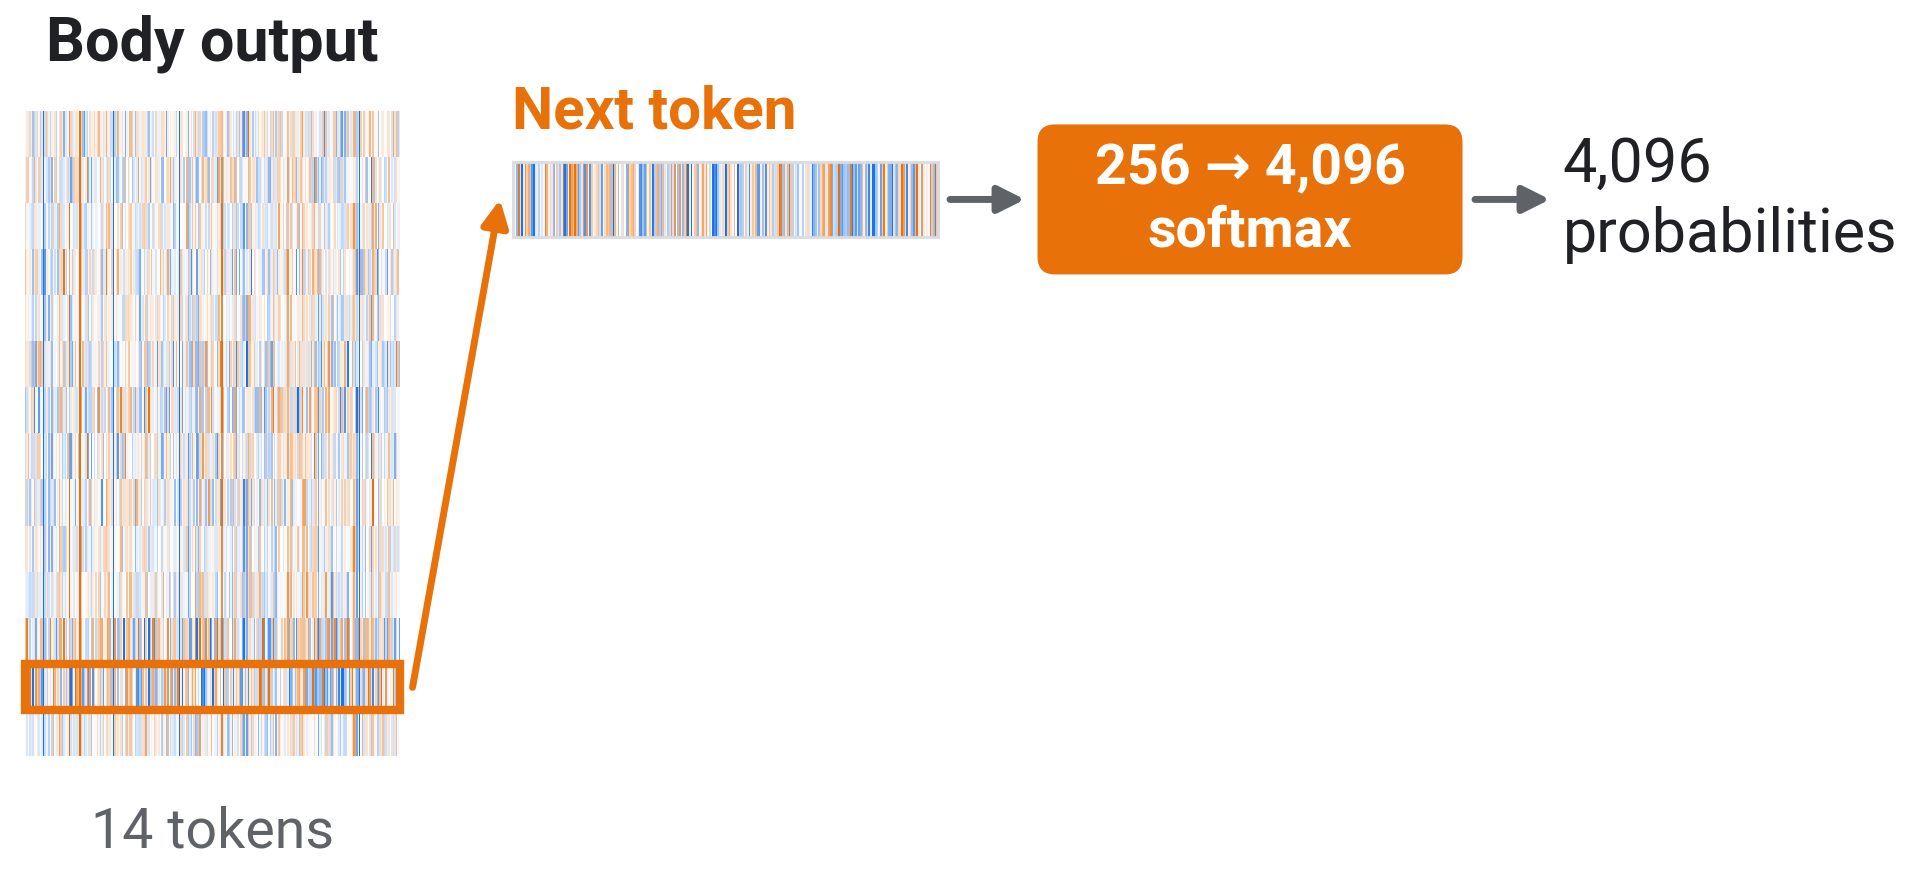
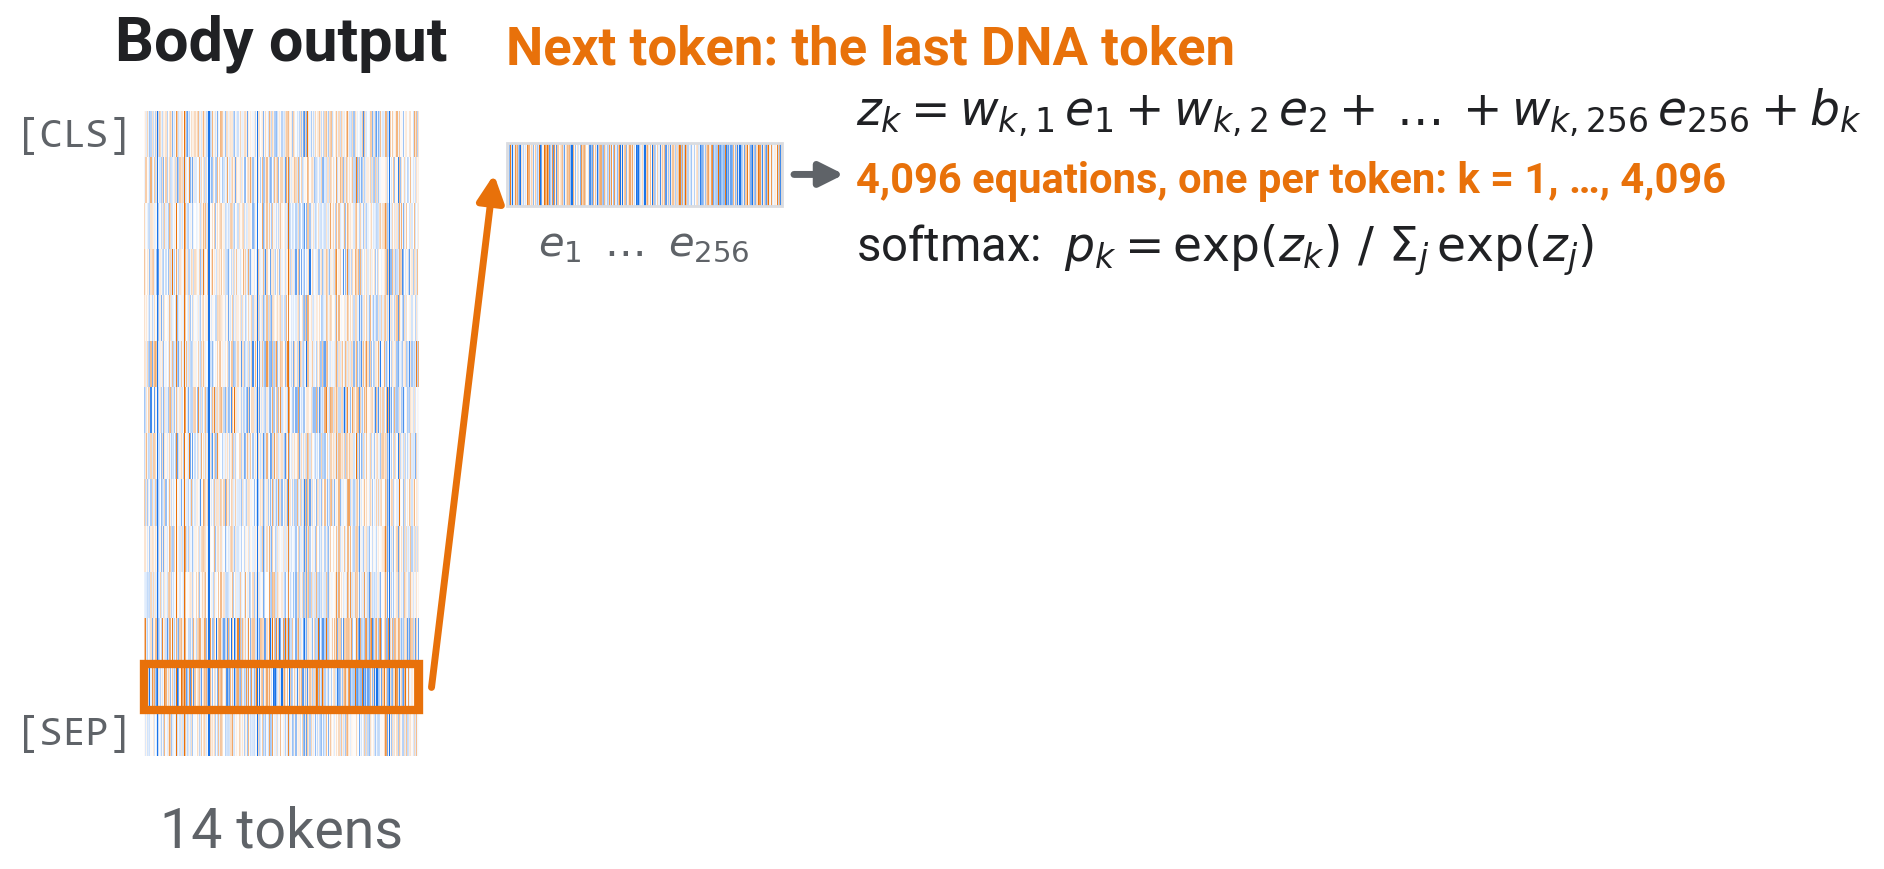
Deck 2 slide 5.1: [CLS] and [SEP] named, the task head reads the average of all rows, each head's equations written out with their count

Changed region(s): [[0.0, 0.0, 0.9851, 0.87], [0.0308, 0.9321, 0.2155, 0.9942]]

diff --git a/slides/02_foundation_models.html b/slides/02_foundation_models.html
@@ -599,9 +599,10 @@
 <aside class="notes">
 <ul>
 <li>Left: the body’s output for the sequence of slide 4.2, one row of 256 numbers per token: its contextual embeddings. One head per click.</li>
-<li>Next token: the last token’s row goes through a linear layer to 4,096 scores, one per vocabulary token; the softmax turns them into probabilities that sum to 1. Masked token: the same, from the hidden token’s row.</li>
+<li>The first and last rows are [CLS] and [SEP], two special tokens the tokenizer adds; they are not DNA. So the next-token head reads the row just above [SEP], the last DNA token.</li>
+<li>Next token: that row’s 256 numbers go through a linear layer with 4,096 outputs. Each output is one weighted sum, <span class="math inline">\(z_k = w_{k,1} e_1 + \dots + w_{k,256} e_{256} + b_k\)</span>: one equation per vocabulary token, 4,096 equations, about a million weights. The softmax turns the 4,096 scores into probabilities that sum to 1. Masked token: the same equations, from the hidden token’s row.</li>
 <li>These two are the pretraining heads (slide 1.5). After pretraining they are dropped; the embedding table and the body are kept.</li>
-<li>Our task: the average of all rows, the <strong>sequence embedding</strong> (the 256 numbers of slide 4.2), goes through one linear layer to one number, then the sigmoid: P(bound).</li>
+<li>Our task: the average of all rows, the <strong>sequence embedding</strong> (the 256 numbers of slide 4.2), goes into a single equation, <span class="math inline">\(z = w_1 e_1 + \dots + w_{256} e_{256} + b\)</span>, then the sigmoid: P(bound). 257 numbers to learn, the logistic regression of part 1.</li>
 </ul>
 <style type="text/css">
         span.MJX_Assistive_MathML {

diff --git a/slides/figures/figs_deck2.py b/slides/figures/figs_deck2.py
@@ -454,33 +454,44 @@ def heads(tok, fm, pos):
     toks, _, Hc, _ = walk_tensors(tok, fm, pos)
     v = np.percentile(np.abs(Hc), 97)
     n = len(toks)
-    rows = [("Next token", n - 2, "256 → 4,096\nsoftmax", "4,096\nprobabilities", HELD_C),
-            ("Masked token", 6, "256 → 4,096\nsoftmax", "4,096\nprobabilities", HELD_C),
-            ("Our task", None, "256 → 1\nsigmoid", "P(bound)", GOOD_C)]
+    vocab = [r"$z_k = w_{k,1}\,e_1 + w_{k,2}\,e_2 + \dots + w_{k,256}\,e_{256} + b_k$",
+             "4,096 equations, one per token: k = 1, …, 4,096",
+             r"softmax:  $p_k = \exp(z_k)\ /\ \Sigma_j\, \exp(z_j)$"]
+    ours = [r"$z = w_1\,e_1 + w_2\,e_2 + \dots + w_{256}\,e_{256} + b$",
+            "one equation",
+            r"sigmoid:  $\hat p = \sigma(z)$ = P(bound)"]
+    rows = [("Next token: the last DNA token", n - 2, vocab, HELD_C),
+            ("Masked token: the hidden token", 6, vocab, HELD_C),
+            ("Our task: the average of all rows", None, ours, GOOD_C)]
     names = []
     for k in range(3):
         fig, ax, H = canvas3("d2_heads_0")
         top, bot = H - 9, 9
-        heat(ax, 2, bot, 30, top - bot, Hc, v)
+        x0, w = 12, 22                                  # room on the left to name the special rows
+        heat(ax, x0, bot, w, top - bot, Hc, v)
         rh = (top - bot) / n
-        label(ax, 17, H - 3.5, "Body output", fs=22, bold=True)
-        label(ax, 17, 3, f"{n} tokens", fs=20, color=MUTED)
+        label(ax, x0 + w / 2, H - 3.5, "Body output", fs=22, bold=True)
+        label(ax, x0 + w / 2, 3, f"{n} tokens", fs=20, color=MUTED)
+        for ri, nm_ in ((0, "[CLS]"), (n - 1, "[SEP]")):      # special tokens the tokenizer adds; not DNA
+            label(ax, x0 - 1, top - (ri + 0.5) * rh, nm_, fs=15, color=MUTED, ha="right", family=MONO)
         step = (H - 6) / 3
-        for j, (name, ri, head, out, c) in enumerate(rows[:k + 1]):
-            y = H - 10 - j * step
+        for j, (name, ri, eqs, c) in enumerate(rows[:k + 1]):
+            y = H - 4 - j * step                         # the row's title line
             if ri is not None:
-                ax.add_patch(Rectangle((2, top - (ri + 1) * rh), 30, rh, fill=False, ec=c, lw=3, zorder=4))
+                ax.add_patch(Rectangle((x0, top - (ri + 1) * rh), w, rh, fill=False, ec=c, lw=3, zorder=4))
                 src = top - (ri + 0.5) * rh
                 vec = Hc[ri]
-            else:
+            else:                                       # the average reads every row: a bracket over all of them
+                ax.plot([x0 + w + 1.2, x0 + w + 2.4, x0 + w + 2.4, x0 + w + 1.2], [top, top, bot, bot], color=c, lw=3)
                 src, vec = (top + bot) / 2, Hc.mean(0)
-            arrow(ax, 33, src, 40, y - 6, color=c, lw=2.5, ms=20)
-            label(ax, 41, y + 1, name, fs=21, color=c, ha="left", bold=True)
-            strip(ax, 41, y - 9, 34, 6, vec, v)
-            arrow(ax, 76, y - 6, 82, y - 6, color=MUTED, lw=2.5, ms=20)
-            blk(ax, 83, y - 12, 34, 12, head, fc=c, fs=20)
-            arrow(ax, 118, y - 6, 124, y - 6, color=MUTED, lw=2.5, ms=20)
-            label(ax, 125, y - 6, out, fs=22, ha="left")
+            arrow(ax, x0 + w + (2.6 if ri is None else 1), src, 40, y - 10, color=c, lw=2.5, ms=20)
+            label(ax, 41, y, name, fs=19, color=c, ha="left", bold=True)
+            strip(ax, 41, y - 12.5, 22, 5, vec, v)             # the 256 numbers going in
+            label(ax, 52, y - 15.5, r"$e_1 \ \dots \ e_{256}$", fs=15, color=MUTED)
+            arrow(ax, 64, y - 10, 68, y - 10, color=MUTED, lw=2.5, ms=18)
+            label(ax, 69, y - 5, eqs[0], fs=17, ha="left")
+            label(ax, 69, y - 10.5, eqs[1], fs=15, color=c, ha="left", bold=True)
+            label(ax, 69, y - 16, eqs[2], fs=17, ha="left")
         nm = f"d2_heads_{k}"; save_raw(fig, nm); names.append(nm)
     trim_group(names)
 
